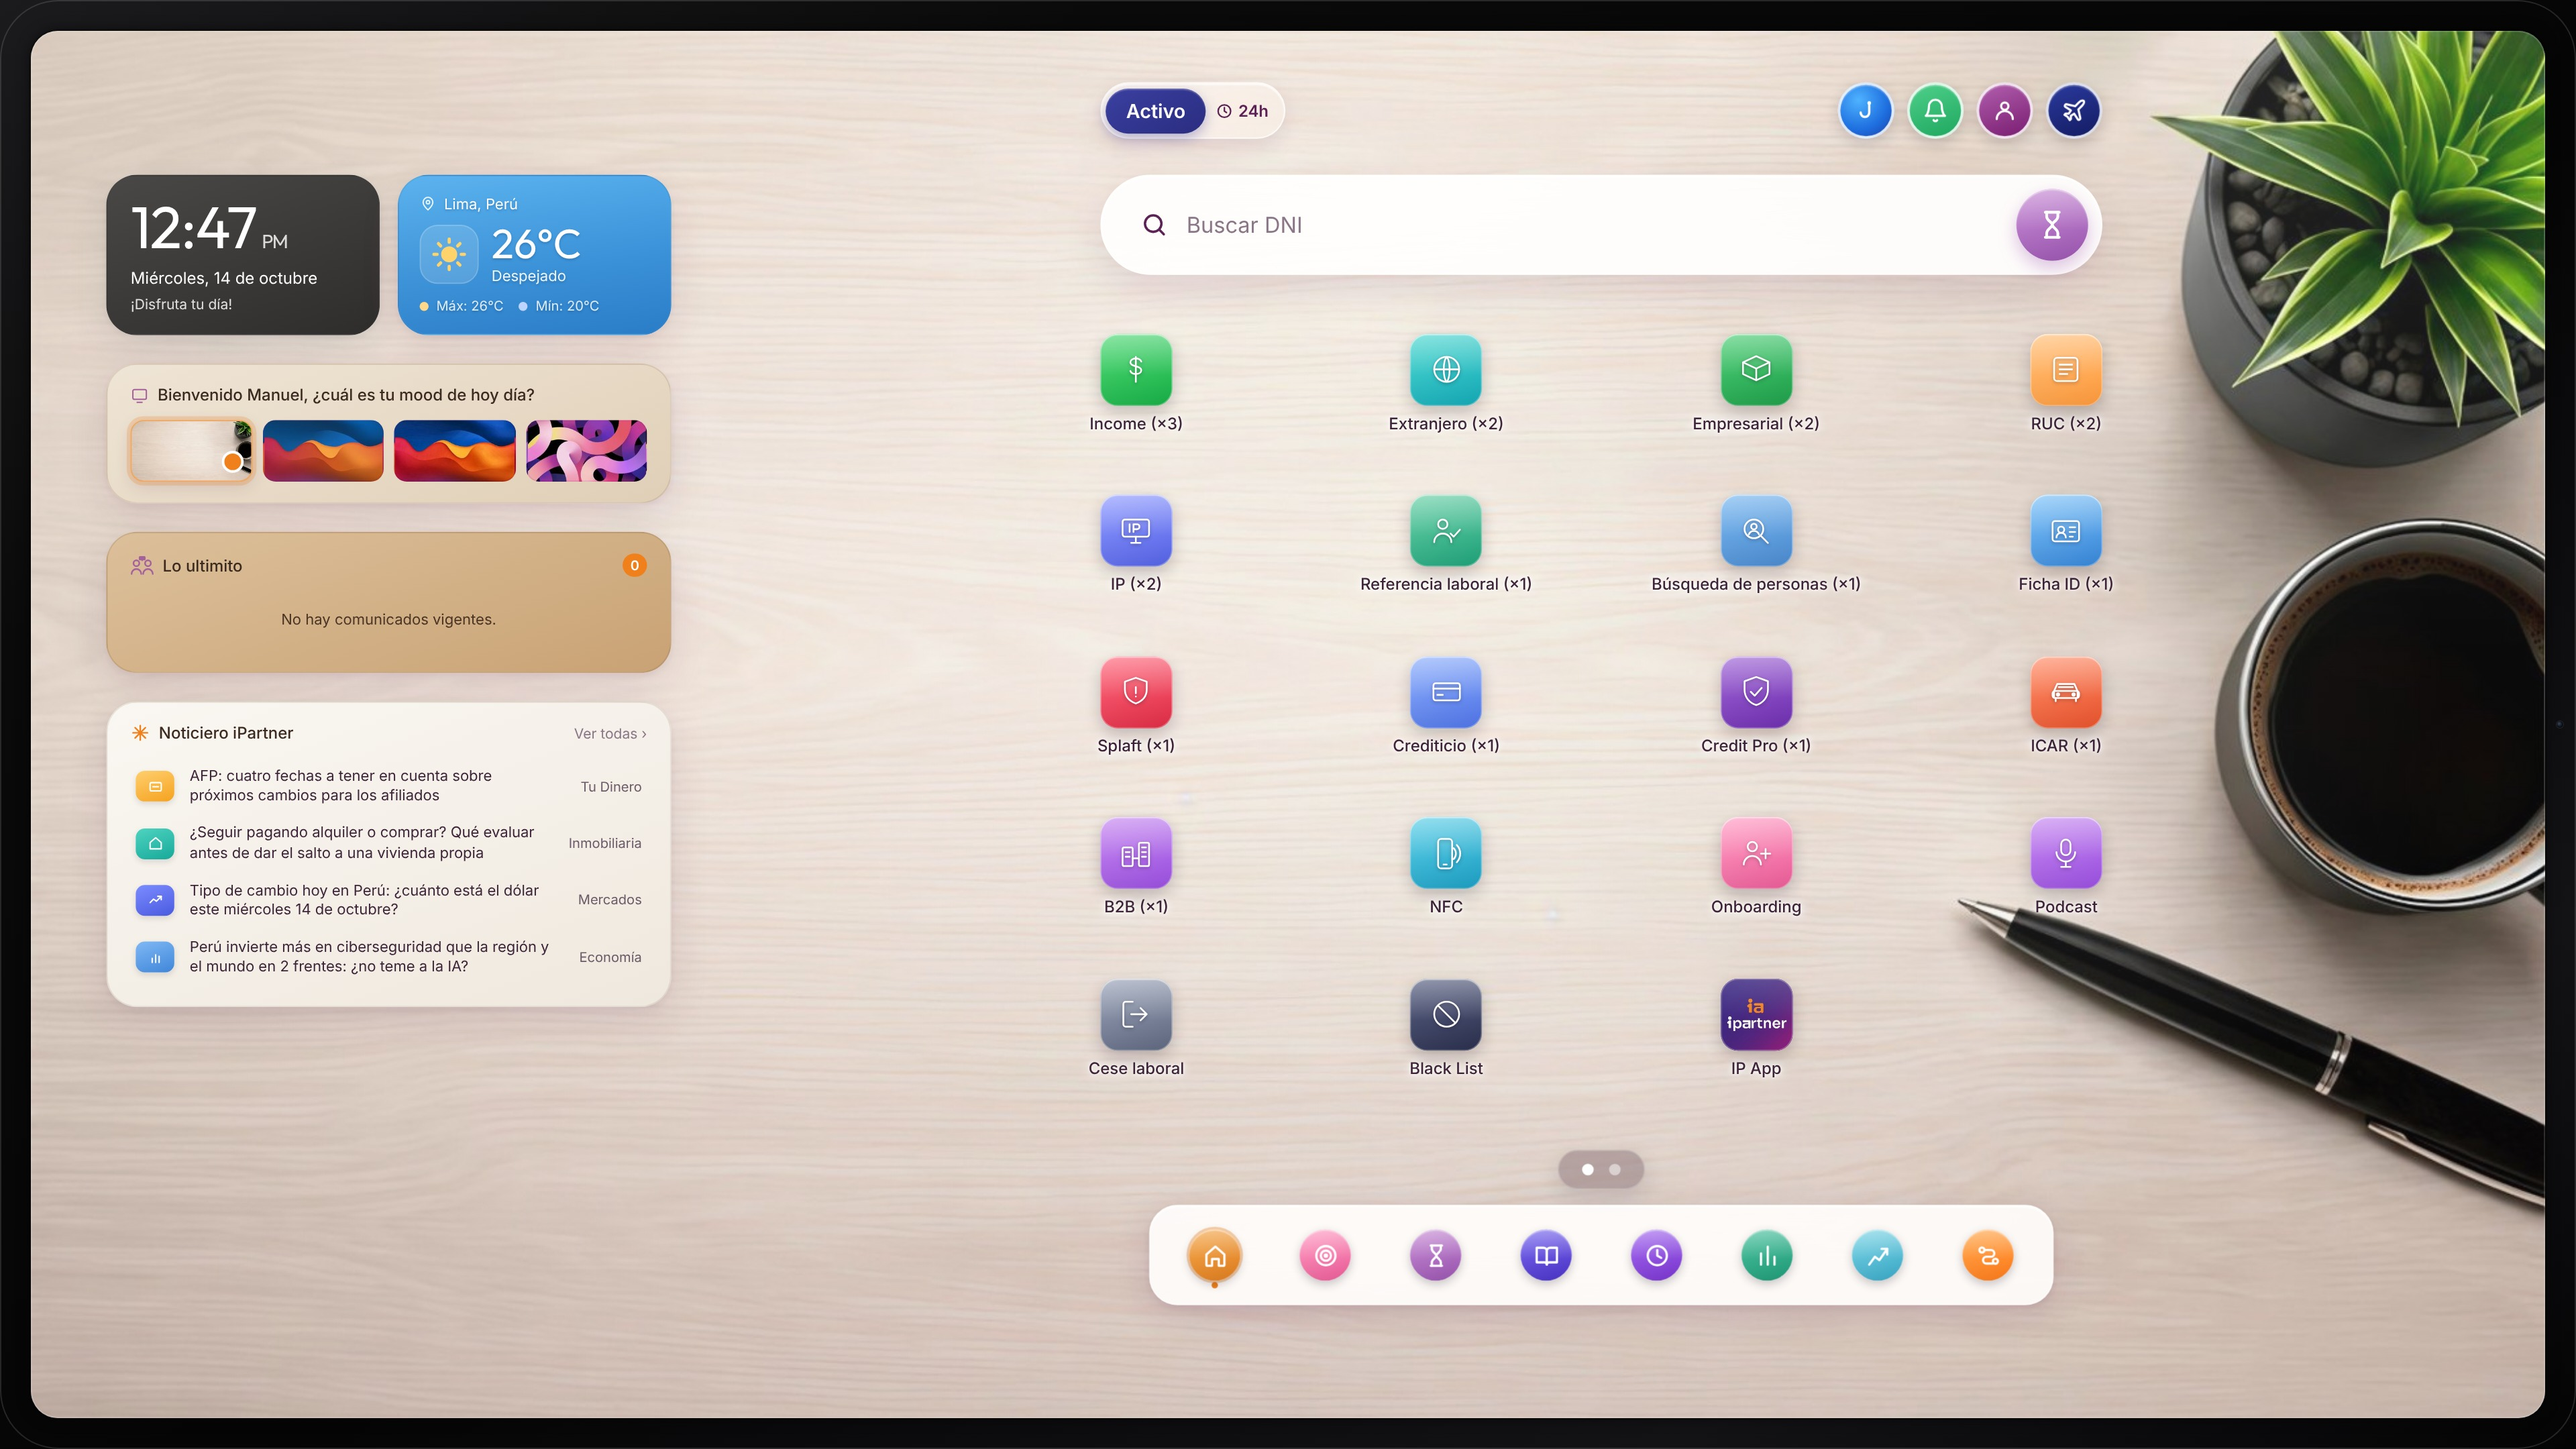
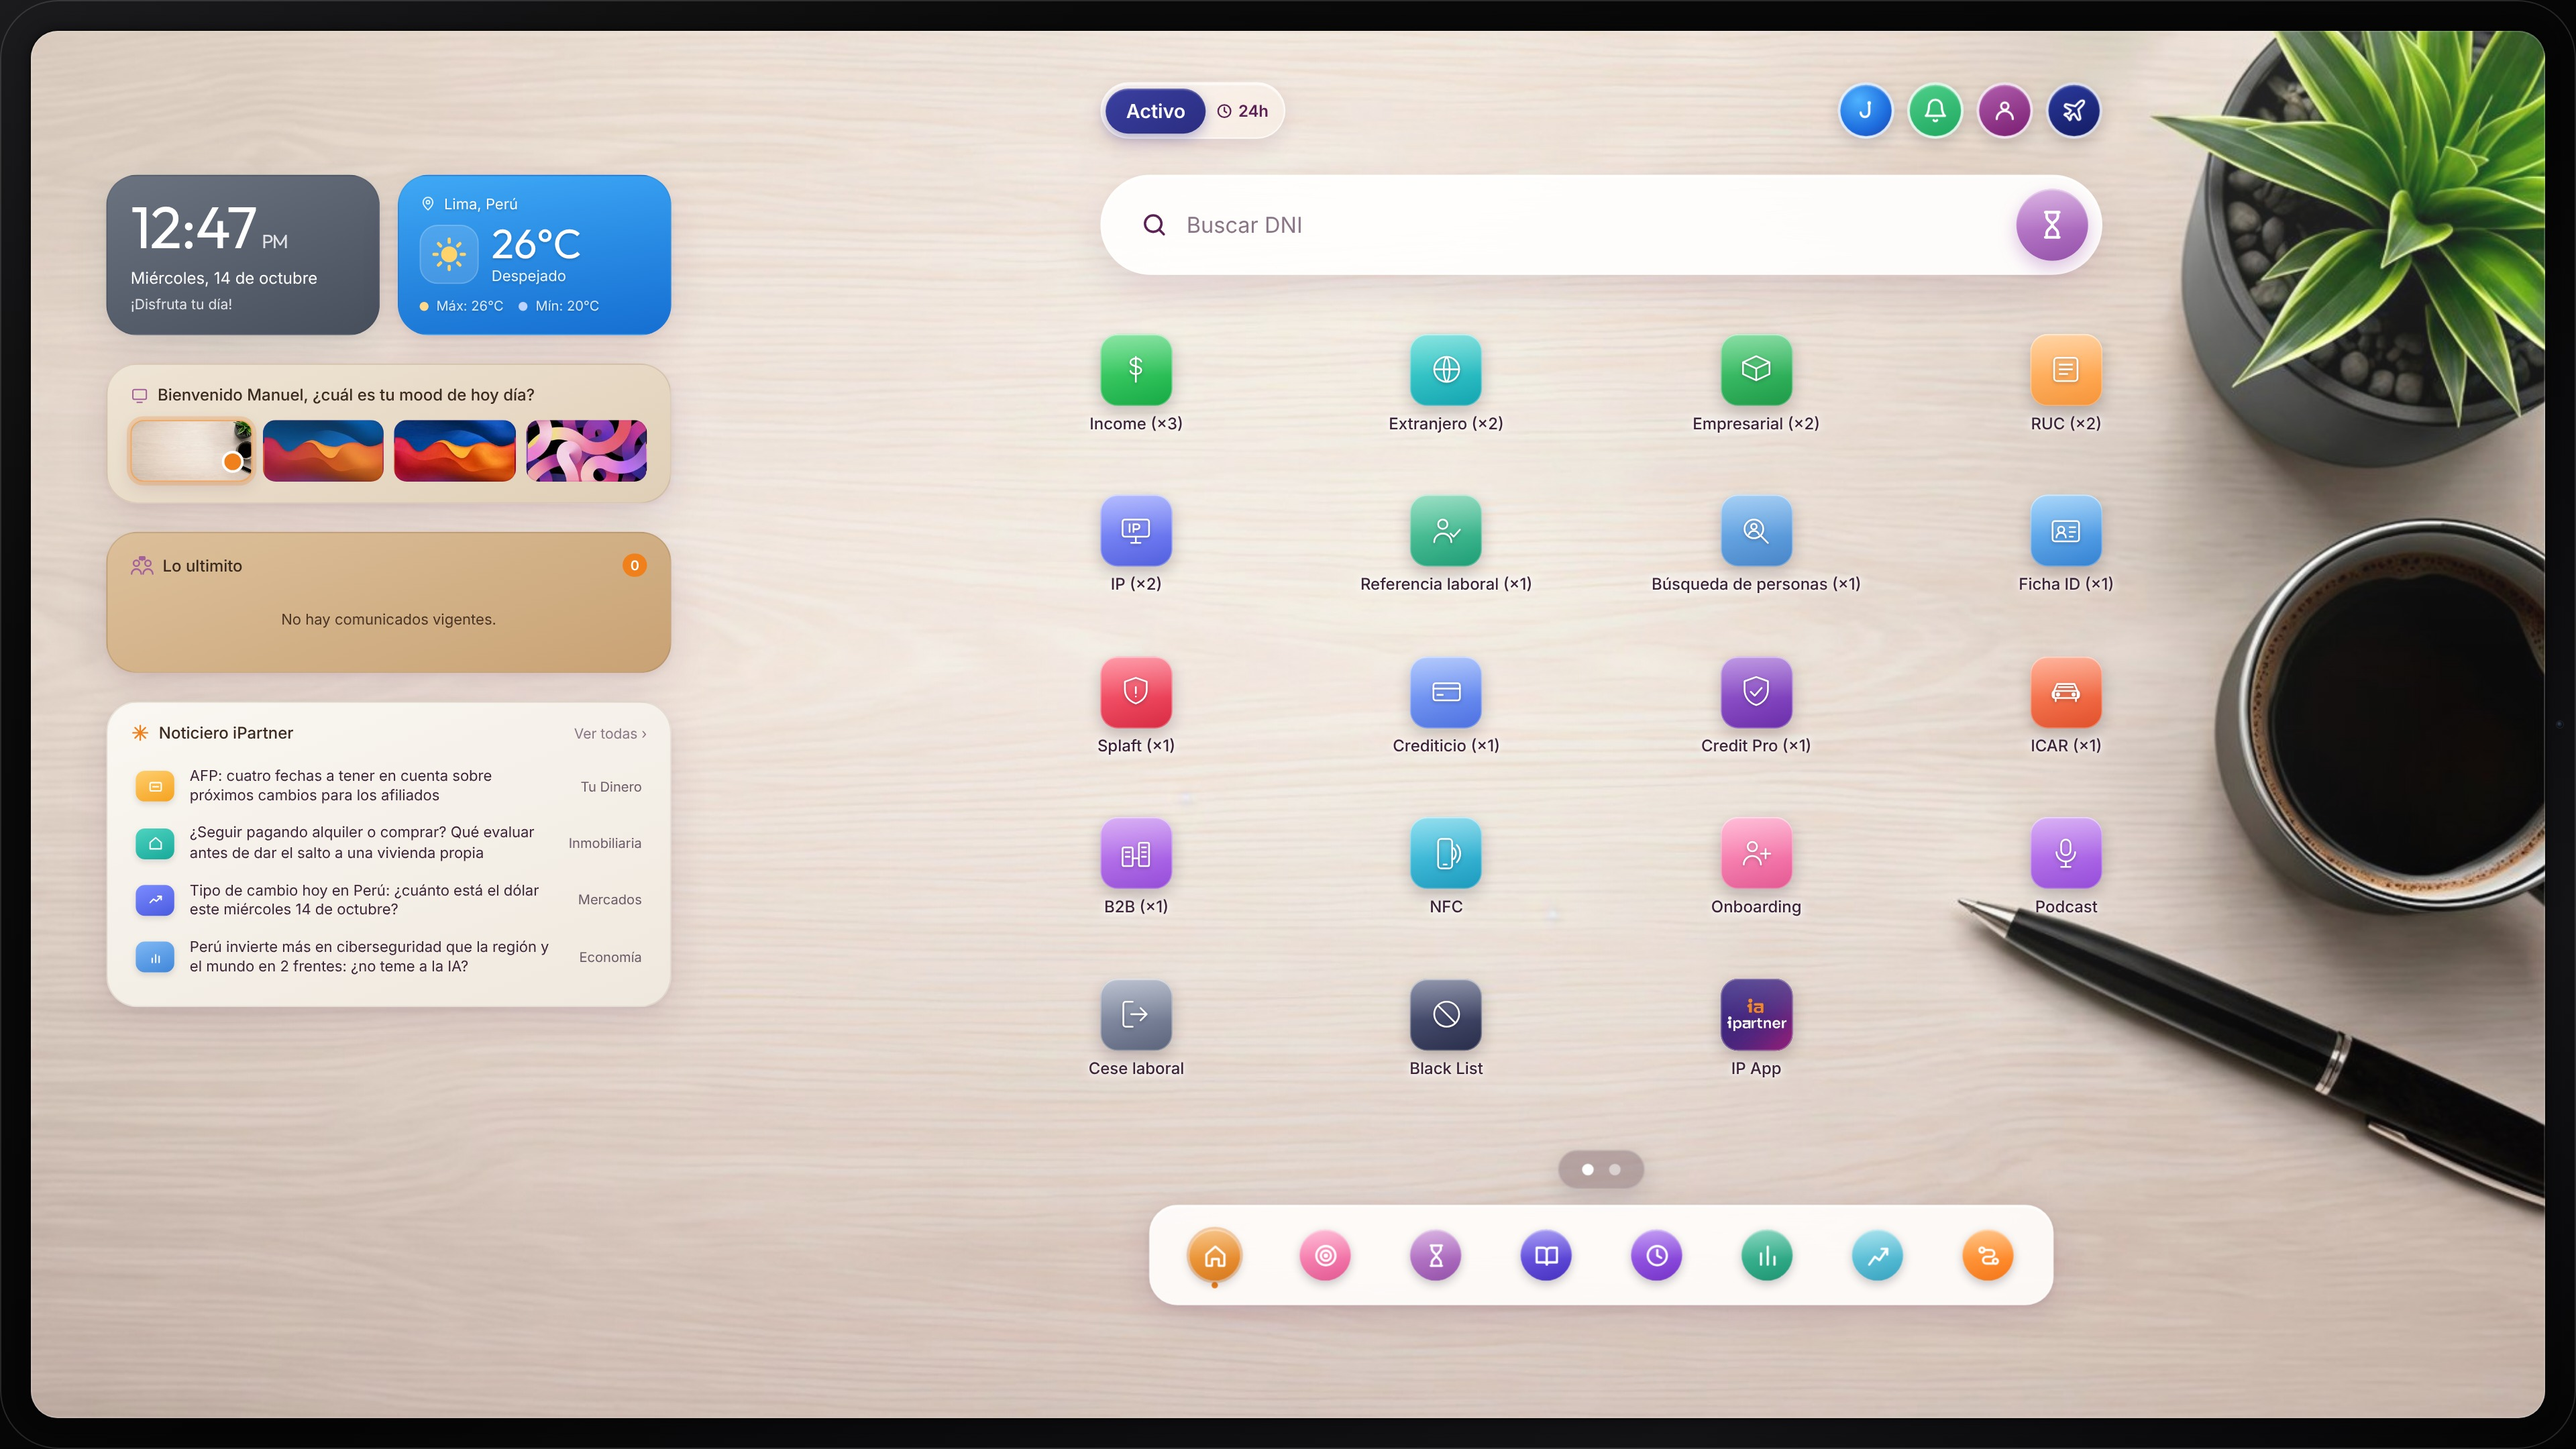
Home: paleta café con reloj gris grafito y clima azul intenso
Claude-Session: https://claude.ai/code/session_01KT8NTYu2Ge9wagQ7cc8Njn

Changed region(s): [[0.0312, 0.0931, 0.2812, 0.2481]]

diff --git a/home/propuestas/ipartner-home-paleta-cafe.html b/home/propuestas/ipartner-home-paleta-cafe.html
@@ -1117,6 +1117,9 @@ header .sesion{grid-column:2;justify-self:center!important;width:780px;justify-c
 .card.noticiero{background:linear-gradient(160deg,#faf7f2,#efe8de)!important;border-color:rgba(110,80,50,.12)!important}
 .card-mood .titulo-card h2,.card.novedades .titulo-card h2,.card.noticiero .titulo-card h2{color:#3b2a20!important}
 .card.reloj.tx-claro .saludo,.card.noticiero.tx-claro .noticia time,.card.novedades.tx-claro .nov-vacio{color:rgba(255,255,255,.85)!important}
+/* Reloj y clima como en la propuesta de colores vivos */
+.card.reloj{background:linear-gradient(160deg,#6b7280,#474e5c)!important}
+.card.clima.c-despejado,.card.clima.c-soleado,.card.clima.c-parcial,.card.clima.c-amanecer{background:linear-gradient(170deg,#3fa9f5,#1877e0)!important}
 
 </style>
 </head>
